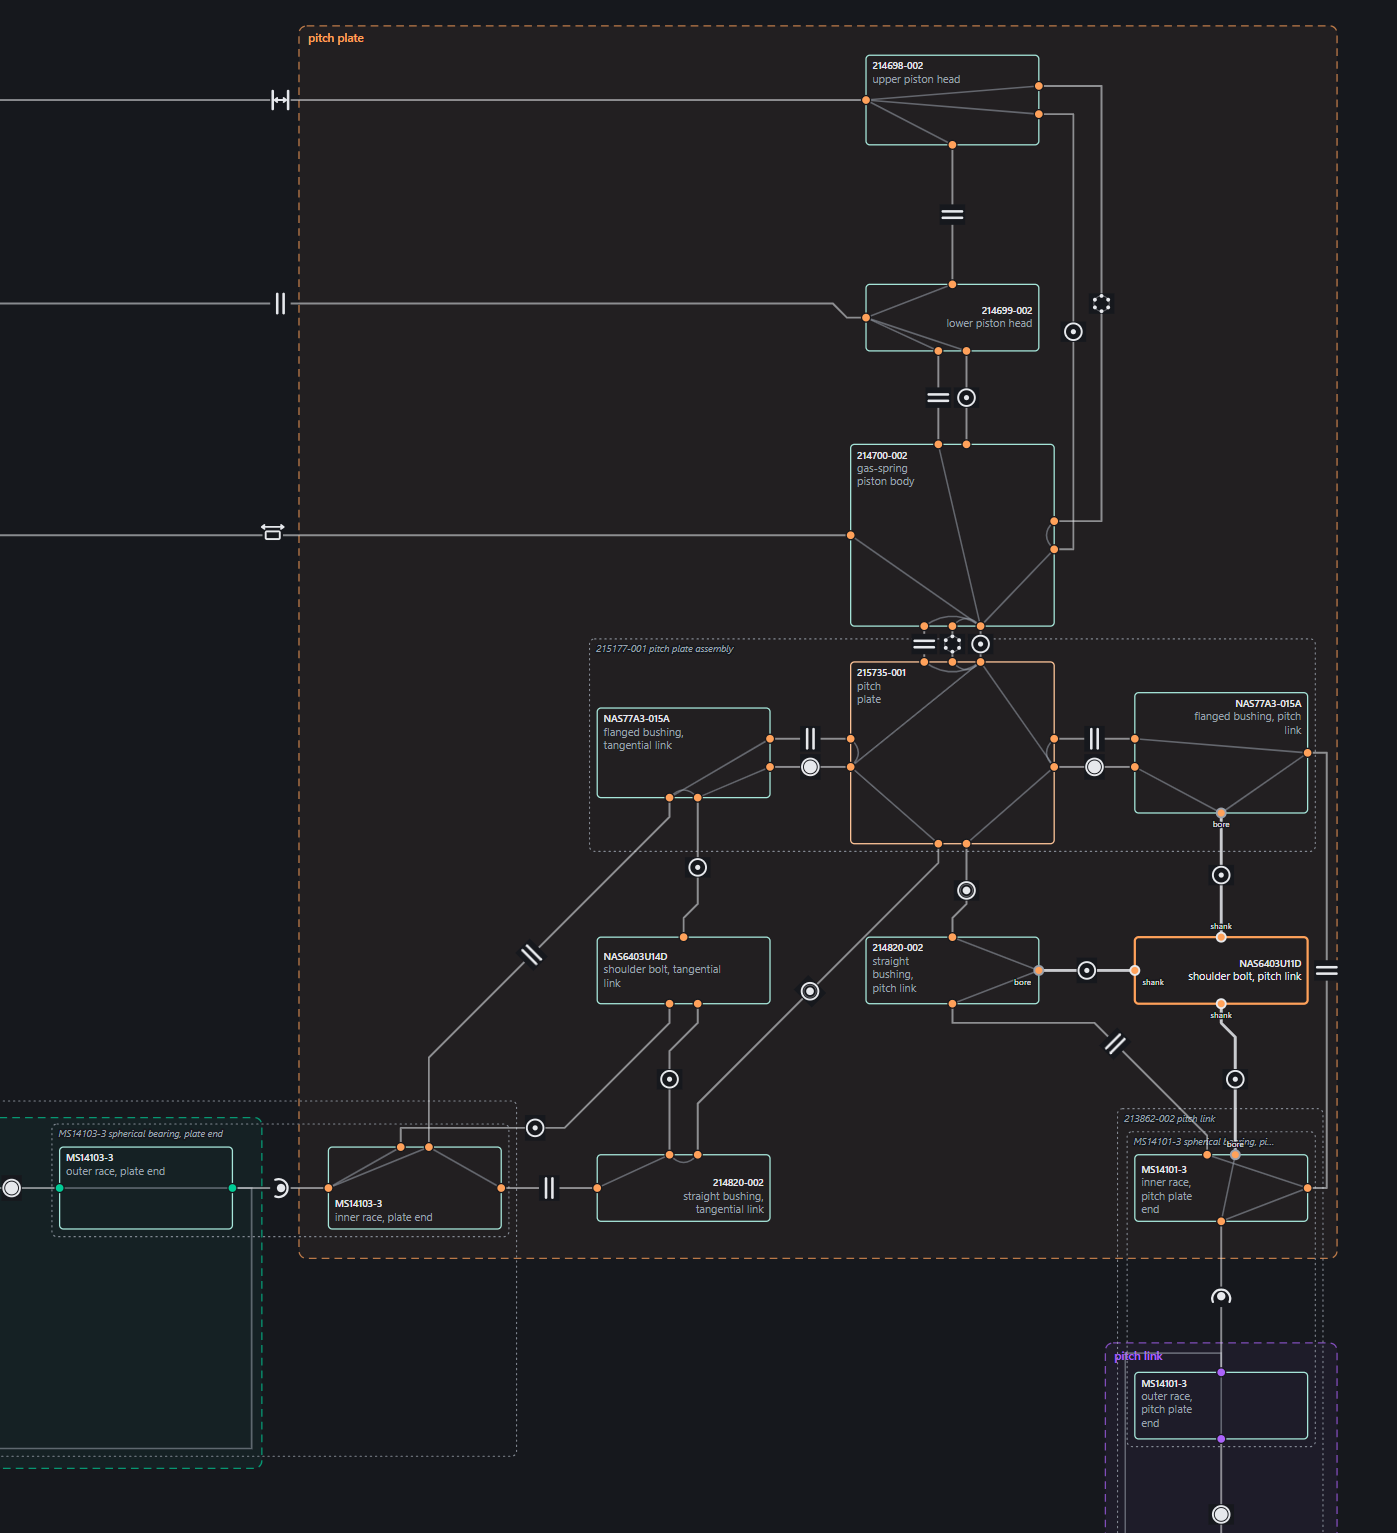
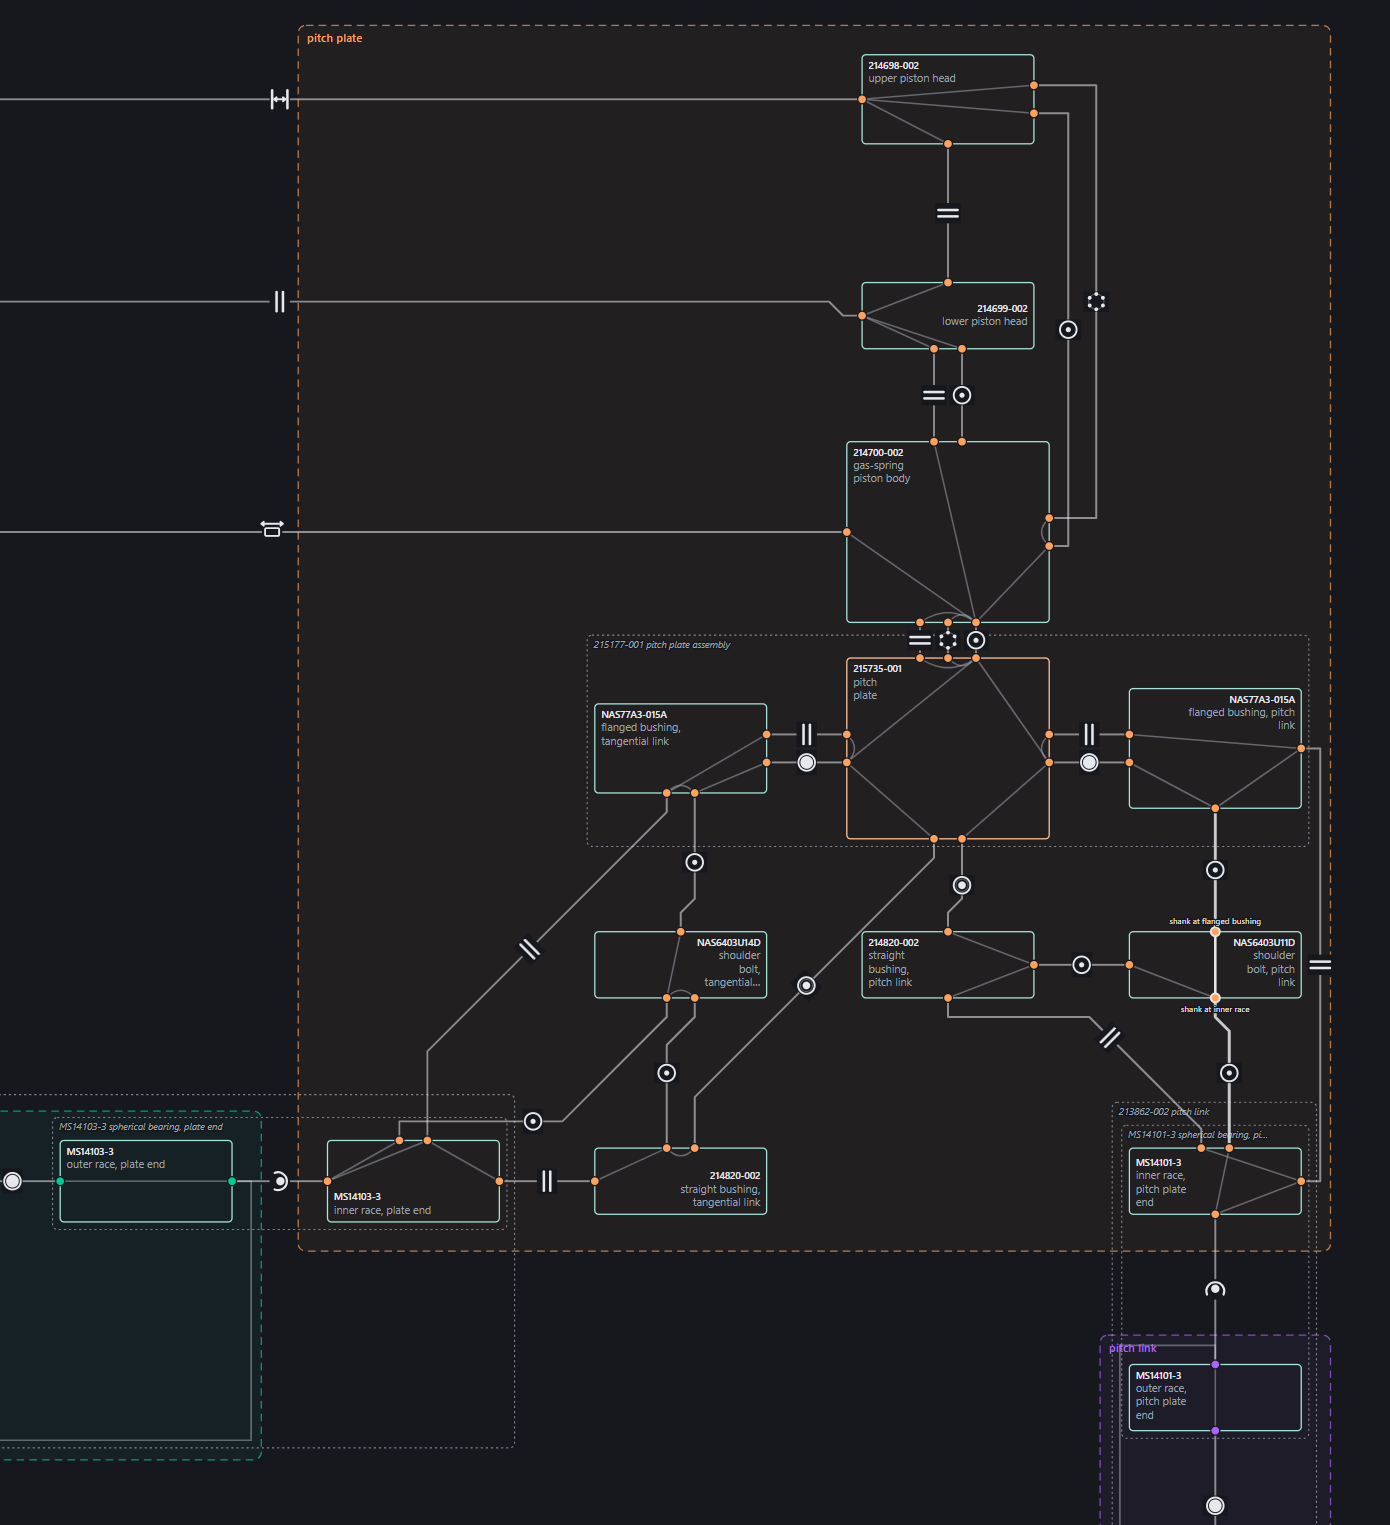
lesson: what the tiers caught, the test record; final shots

diff --git a/docs/sessions/lessons/LESSONS_20261119_the_pitch_plate_carries_its_own_features_and_each_lug_is_a_bolt_stack.md b/docs/sessions/lessons/LESSONS_20261119_the_pitch_plate_carries_its_own_features_and_each_lug_is_a_bolt_stack.md
@@ -224,16 +224,16 @@ root, and read before this section was written.
 
 - **Map**: `map_3840_side_by_side.png`, `map_1536_side_by_side.png` and each
   width's `…_pitch_plate_region.png`. Notes none. Drawn counts equal the
-  model's: 5 bodies, 33 parts, 95 features, 71 dimensions, 50 interfaces.
+  model's: 5 bodies, 33 parts, 99 features, 75 dimensions, 50 interfaces.
   Every lug box leads with its number.
 - **Groups**: `map_3840_pitch_plate_{bodies,assemblies,parts}_off.png`.
   Nothing moves.
 - **Tree**: `tree_215177_open.png`. "215177-001 pitch plate assembly · 3
   parts · 0 features", then the plate with its 9 features, then the two
   "NAS77A3-015A flanged bushing" rows. The pilot boss carries the bound mark.
-- **3D**: `pane_pitch_link_bolt_selected.png`. The shank is selected and
-  framed. Its body offers three "Take" rows (r 2.4065, "fits the mating
-  bore").
+- **3D**: `pane_pitch_link_bolt_selected.png`. The shank's length in the
+  race (`…_at_race`) is selected and the bolt framed. Its body offers one
+  "Take" row (2 faces, r 2.4065, "fits the mating bore").
 - **What the shots showed that no check asked about:**
   - Two long diagonals: tangential flange to race, and the tangential
     straight bushing's fit up to the plate. The pitch link's flange-to-race
@@ -242,7 +242,82 @@ root, and read before this section was written.
   - The pitch link outline's name, "213862-002 pitch link", is crossed by the
     pitch link straight bushing's clamp route. No note fires for a name
     crossed by a route. That is filed (below).
-  - The hovers in the probe lit nothing (`own: []`). The probe's selectors
-    hit the outline's name and the box's centre. Link 4's probe got lights
-    from a bearing's outline name. This is not settled. The hover tier
-    (`the map`) was run, below.
+  - The hovers in the probe lit nothing (`own: []`). The browser suite `the
+    map`, which checks what a hover lights, is green on this tree, so the
+    probe's pointer placement is the suspect, not the page. Not chased
+    further.
+  - One console 404 on every load: `/tolstack/rebuild/status`, an endpoint
+    of drawing-checker's server that the probe's own server does not mount.
+
+## What the tiers caught that the model change moved
+
+- **A one-feature part.** The bolt began as one shank node. The viewer fast
+  tier (`[real] every live dot answers the SAME on hover and on click`)
+  reads a node's own part off a dimension incident on it, so it named
+  `pitch_link_bolt_shank` an authoring error. The handoff's "the bolt's
+  shank" among the structural dimensions said the same. The shank is now its
+  three bearing lengths with two dimensions between them (above).
+- **The map's drawn scale.** `VA.mapTransform` rounded the scale to two
+  decimals. The seven-column map fits a 1700 × 1500 Side by side region at
+  0.27588, and drew at 0.28: 2 px past the pane's right edge. `the map`'s
+  "fits its region" check caught it. v2's map was height-bound before, with
+  slack. The scale now keeps five decimals, with a fast check and its
+  witness spec (`fast__the-map-s-drawn-transform-keeps-the-fit-s-scale-so-a-fit__1f235976.json`).
+- **Two checks in `the model drawn alone`**, each written against the old
+  data:
+  - "every part of the end-stop model's bodies is posed with its own body":
+    the tangential link's bolt has no mesh, so there is nothing to pose. It
+    is now exempt as mesh-less, and only that.
+  - The district-border press: it was one pixel inside the base district's
+    top edge. At the smaller fit that pixel is past the hit stroke's inner
+    half, and lands on the field. It now presses on the border's own line.
+- **The hover-divergence counts** in `apps/viewer/README.md` and
+  `views/topology.js`, re-derived from a projection of this tree: 110 of 157
+  live nodes, 86 as a set (102, 147 and 82 before).
+
+## The test record
+
+Everything ran from this worktree. The `[real]` tiers ran against a scratch
+root, `C:\workspace	olstack\data\scratch\plate`. It held copies of the main
+checkout's `data/inbox`, `data/meshes` and `data/projections`, a `git archive`
+of the tree, and junctions to `node_modules` and `venv-win`. Every builder
+was run from this worktree with `--data-root <root>/data`. The last full
+rebuild was from `a63d1900`; later commits changed the map's transform, two
+browser checks, two published counts and docs, and no projection input. The
+shared `data/` was never written. The real feature-identity log was 100 events
+before and after. The scratch root is left for the review; it is gitignored.
+
+- **Default tier**, `C:/workspace/tolstack/venv-win/Scripts/python.exe -m pytest -q -p no:cacheprovider`
+  on `a63d1900`: **2577 passed, 2 failed, 1 skipped, 4 deselected**, 494 s
+  (ledger row recorded, inside budget). The two failures, both expected and
+  the same as link 4's:
+  - `test_viewer_js_suite_is_green`: the worktree has no `data/`. The tier
+    below was run instead.
+  - `test_every_established_export_lists_exactly_the_runs_the_log_records_for_its_sha`:
+    pre-existing, already filed as
+    `ISSUE_20261119_the_gas_spring_mount_export_has_a_sixth_run_the_pitch_linkage_topology_does_not_list.md`.
+  - After that run, `tests/test_mutation_witnesses.py` was re-run on the
+    later commits (49 passed), and so were the topology, model view,
+    projection and map tests (300 passed).
+- **Viewer fast tier with `[real]`**, `node apps/viewer/run_tests.cjs --repo <scratch root>`:
+  **619/619** (one check added).
+- **Annotate fast tier**, `node apps/annotate/run_tests.cjs --repo <scratch root>`:
+  **334/334**.
+- **Browser**, `--repo <scratch root>`, one `--only` run per suite that reads
+  v2. These are a stack-data change's browser checks, not suites this branch
+  changed, except `the model drawn alone`:
+  - `the map (the counts on both models`: 32/32. It failed once on the fit
+    (above) and passed after the fix.
+  - `the Groups switches`: 11/11.
+  - `the model drawn alone`: 22/22 after its two edits.
+  - `the DAG zoom, Fit and the grid header`, `a suggestion names its face`,
+    `a pattern is bound as its like faces`, `a bound pattern offers the
+    whole pattern`, `the first end of a joint lists`: each 1/1 suite green.
+- **Witness**: one run with the two new specs, `--only` each, **2/2
+  witnessed** in 9m52s. The retired spec (`…in-no-body…__d00a48e8.json`)
+  went with its guard. Pin: viewer fast `619 / 619` (+1, with a spec). The
+  pytest guard is not censused.
+
+## Found on arrival
+
+Nothing. The worktree was clean, at `bf9aa924`.
